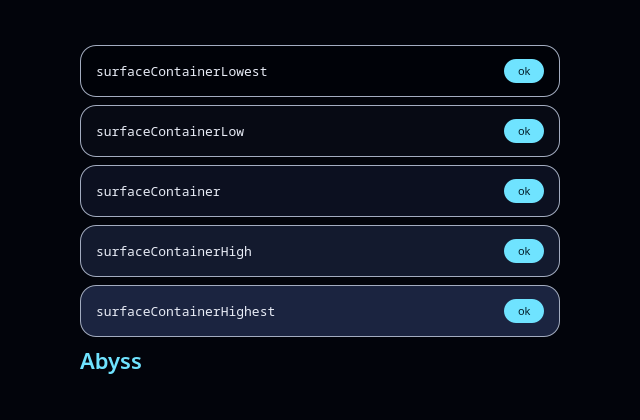
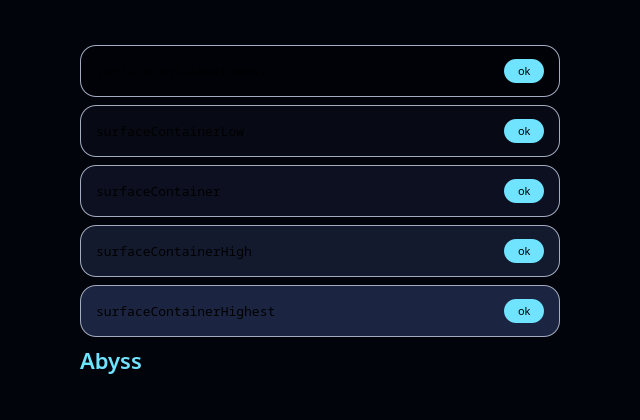
fix(app): expose the on* theme roles, fail the capture script loudly, document it (NAK-303)

diff --git a/app/components/Theme.qml b/app/components/Theme.qml
@@ -6,15 +6,16 @@ import "Palette.js" as Palette
 
 // The app's own Theme, with the API of the DMS one so the shared components
 // render here unchanged. Colours come only from Palette.js. DMS is never read
-// (Q110): no event-driven, read-only source exists, so the Abyss palette applies.
+// (Q121): no event-driven, read-only source exists, so the Abyss palette applies.
 QtObject {
     id: root
 
     // Follows the system preference live (the style hints signal), no polling.
-    // ABYSS_SCHEME=light|dark overrides it, for offscreen captures.
+    // ABYSS_SCHEME=light|dark overrides it, for offscreen captures;
+    // ABYSS_REDUCE_MOTION=1 zeroes the durations.
     readonly property string _forced: Quickshell.env("ABYSS_SCHEME") ?? ""
     readonly property bool isLightMode: _forced === "light" || (_forced !== "dark" && Application.styleHints.colorScheme === Qt.ColorScheme.Light)
-    readonly property bool reduceMotion: (Quickshell.env("ABYSS_REDUCE_MOTION") ?? "") !== ""
+    readonly property bool reduceMotion: Quickshell.env("ABYSS_REDUCE_MOTION") === "1"
     readonly property var _c: Palette.colors(isLightMode)
 
     readonly property color surface: _c.surface
@@ -23,15 +24,17 @@ QtObject {
     readonly property color surfaceContainer: _c.surfaceContainer
     readonly property color surfaceContainerHigh: _c.surfaceContainerHigh
     readonly property color surfaceContainerHighest: _c.surfaceContainerHighest
-    // No on* names: QML reads a property called onXxx as a signal handler and it
-    // resolves to black, so the DMS *Text names are the only text roles.
-    readonly property color secondaryText: _c.onSecondary
-    readonly property color surfaceText: _c.onSurface
-    readonly property color surfaceVariantText: _c.onSurfaceVariant
+    // Text roles under both DMS names: the on* ones and their *Text aliases.
+    readonly property color onSurface: _c.onSurface
+    readonly property color surfaceText: onSurface
+    readonly property color onSurfaceVariant: _c.onSurfaceVariant
+    readonly property color surfaceVariantText: onSurfaceVariant
+    readonly property color onSecondary: _c.onSecondary
     readonly property color outline: _c.outline
     readonly property color outlineStrong: _c.outlineStrong
     readonly property color primary: _c.primary
-    readonly property color primaryText: _c.onPrimary
+    readonly property color onPrimary: _c.onPrimary
+    readonly property color primaryText: onPrimary
     readonly property color secondary: _c.secondary
     readonly property color tertiary: _c.tertiary
     readonly property color success: _c.success

diff --git a/CHANGELOG.md b/CHANGELOG.md
@@ -11,7 +11,7 @@ The format follows [Keep a Changelog](https://keepachangelog.com/en/1.1.0/) and 
 
 - **Send from the launcher in plain sentences** (`SendIntent.js`): "send file to vega", "envoie un fichier au nas" (FR and EN, accents and case ignored) gives one *Send a file to vega…* entry, which runs `abyss send vega` when the app is installed and opens the widget's picker otherwise. The whole sentence must fit the grammar, so Sands' timer phrases are never claimed (a shared corpus is tested both ways in `tests/sendIntent.test.js`); input is capped; about 2 µs per call. A sentence with no device named opens the app's home (`abyss`, since `abyss send` needs a device) or, without the app, the deep, not a device chooser yet. A sentence reads the peers once, so a device named right after the shell started is found. With no prefix set in DMS, only that entry and the `abyss` word answer; the Abyss settings say how to clear a prefix.
 - **Send entries stand out in the right-click menu**: "Send a file…" and "Send a folder…" are drawn with a bold label and a trailing 16 px icon (`upload_file`, `drive_folder_upload`) in the theme's accent (`sendColor`, derived from `Theme.primary`, lightened only when the theme is light); the style travels in the menu model (`icon`, `accent`), not in the label; pressed rows are slightly darker than hovered ones; other entries are unchanged. `screenshots/send-menu.gif` re-rendered from the demo mesh and now shows the open menu first. They come first in the menu, above "Use for Internet" and the other entries.
-- **The app's own theme** (`app/components/Palette.js`, `Theme.qml`): the deep-sea palette, light and dark, in a pure `Palette.js` (the only place a hex value appears) and a `Theme` singleton with the DMS `Theme` API (surfaces, text roles, outline, accents, spacing, type scale 11/13/15/22, radii 12/16/20, durations 100/150/200 ms, `withAlpha`), so shared components render here without being rewritten. The scheme follows the system preference live (no timer, no polling). DMS colours are not read: no event-driven read-only source exists, so the Abyss palette always applies. Reduced motion zeroes the durations. Tests assert every role in both schemes and the contrast pairs (text ≥ 4.5:1, borders ≥ 3:1) from the computed values; offscreen captures in `docs/design/app/theme-captures/`. Roles named `onXxx` are not exposed: QML reads such a property name as a signal handler and it resolves to black, so the `*Text` names are the text roles.
+- **The app's own theme** (`app/components/Palette.js`, `Theme.qml`): the deep-sea palette, light and dark, in a pure `Palette.js` (the only place a hex value appears) and a `Theme` singleton with the DMS `Theme` API (surfaces, text roles, outline, accents, spacing, type scale 11/13/15/22, radii 12/16/20, durations 100/150/200 ms, `withAlpha`), so shared components render here without being rewritten. The scheme follows the system preference live (no timer, no polling). DMS colours are not read: no event-driven read-only source exists, so the Abyss palette always applies. Reduced motion zeroes the durations. Tests assert every role in both schemes and the contrast pairs (text ≥ 4.5:1, borders ≥ 3:1) from the computed values; offscreen captures in `docs/design/app/theme-captures/`.
 - **The Abyss app, first step** (`app/`): Abyss as an app of its own, without DankMaterialShell, on Quickshell alone (`qs`, no DMS import under `app/`). The `abyss` command (POSIX `sh`, words only as `"$@"`) starts one window, or hands its request to the one already running through Quickshell IPC, so a second launch starts no second process; closing the window ends the process (no tray, no background). `abyss`, `abyss send <device> [files…]`, `abyss peer <device>`, `abyss map`, `abyss settings [category]`, `--help`, `--version`. `Cli.js` is pure: it validates and caps every word (count, length, device-name charset, absolute files, no control character) and answers with a short error and the guide anchor. `./install-app.sh` installs the command and `abyss.desktop` under `~/.local` only, `--uninstall` removes exactly that. The window is a placeholder until the views land. A word starting with `-` is handed to the running instance like any other (never read as a `qs` option), the working directory is validated like the words, the window's app id is `abyss` (`QS_APP_ID`) to match the desktop entry, and the installer leaves a folder, entry or command that is not Abyss's alone and removes only the folders it created.
 - **Send engine** (`Send.js`, `SendRunner.qml`): sends files and folders to a device with `scp`, as an argument list with `--` before the paths, the card's user and port, and the SFTP protocol forced so the destination never reaches a remote shell. Items and the destination folder are checked first (absolute paths, 100 items, 200 GB, size looked at with `du -l`, so an item inside another is not taken for missing); a failure is explained in one sentence with advice and a link to the guide (refused login, changed key, SSH off, device unreachable, no space, folder missing, send stopped for taking too long, no `scp`). No password prompt (batch mode), nothing created or running until the first send. Not wired to any view yet.
 - **Wake engine** (`Wake.js`, `WakeRunner.qml`): wakes a sleeping device with a Wake-on-LAN packet. `Wake.js` checks the MAC address, picks the route (direct, or through an online peer of the device's network), builds the argument lists and words each refusal with its advice; `WakeRunner.qml` runs them only on demand, with the tools checked first and the same hermetic fake `ssh` and `wakeonlan` in the tests. Not wired to a view yet.

diff --git a/CONTRIBUTING.md b/CONTRIBUTING.md
@@ -75,7 +75,7 @@ Abyss/
 │   ├── abyss             # the `abyss` command (POSIX sh), single instance
 │   ├── abyss.desktop     # menu entry
 │   ├── usage.txt         # what `abyss --help` prints
-│   └── components/       # Cli.js (command-line parser, pure), Palette.js (the app's colours, pure), Theme.qml (singleton with the DMS Theme API, so shared components render unchanged; scheme follows the system, `ABYSS_SCHEME=light|dark` forces it)
+│   └── components/       # Cli.js (command-line parser, pure), Palette.js (the app's colours, pure), Theme.qml (singleton with the DMS Theme API, so shared components render unchanged; scheme follows the system, `ABYSS_SCHEME=light|dark` forces it, `ABYSS_REDUCE_MOTION=1` zeroes the durations; `tests/scene/theme-shot.sh <scheme> <out.png>` regenerates the captures in `docs/design/app/theme-captures/`)
 ├── install-app.sh        # installs / removes the app under ~/.local
 ├── .github/workflows/    # CI: tests/run.sh on every push
 ├── scripts/preview/      # offscreen renders and GIFs from the demo mesh
